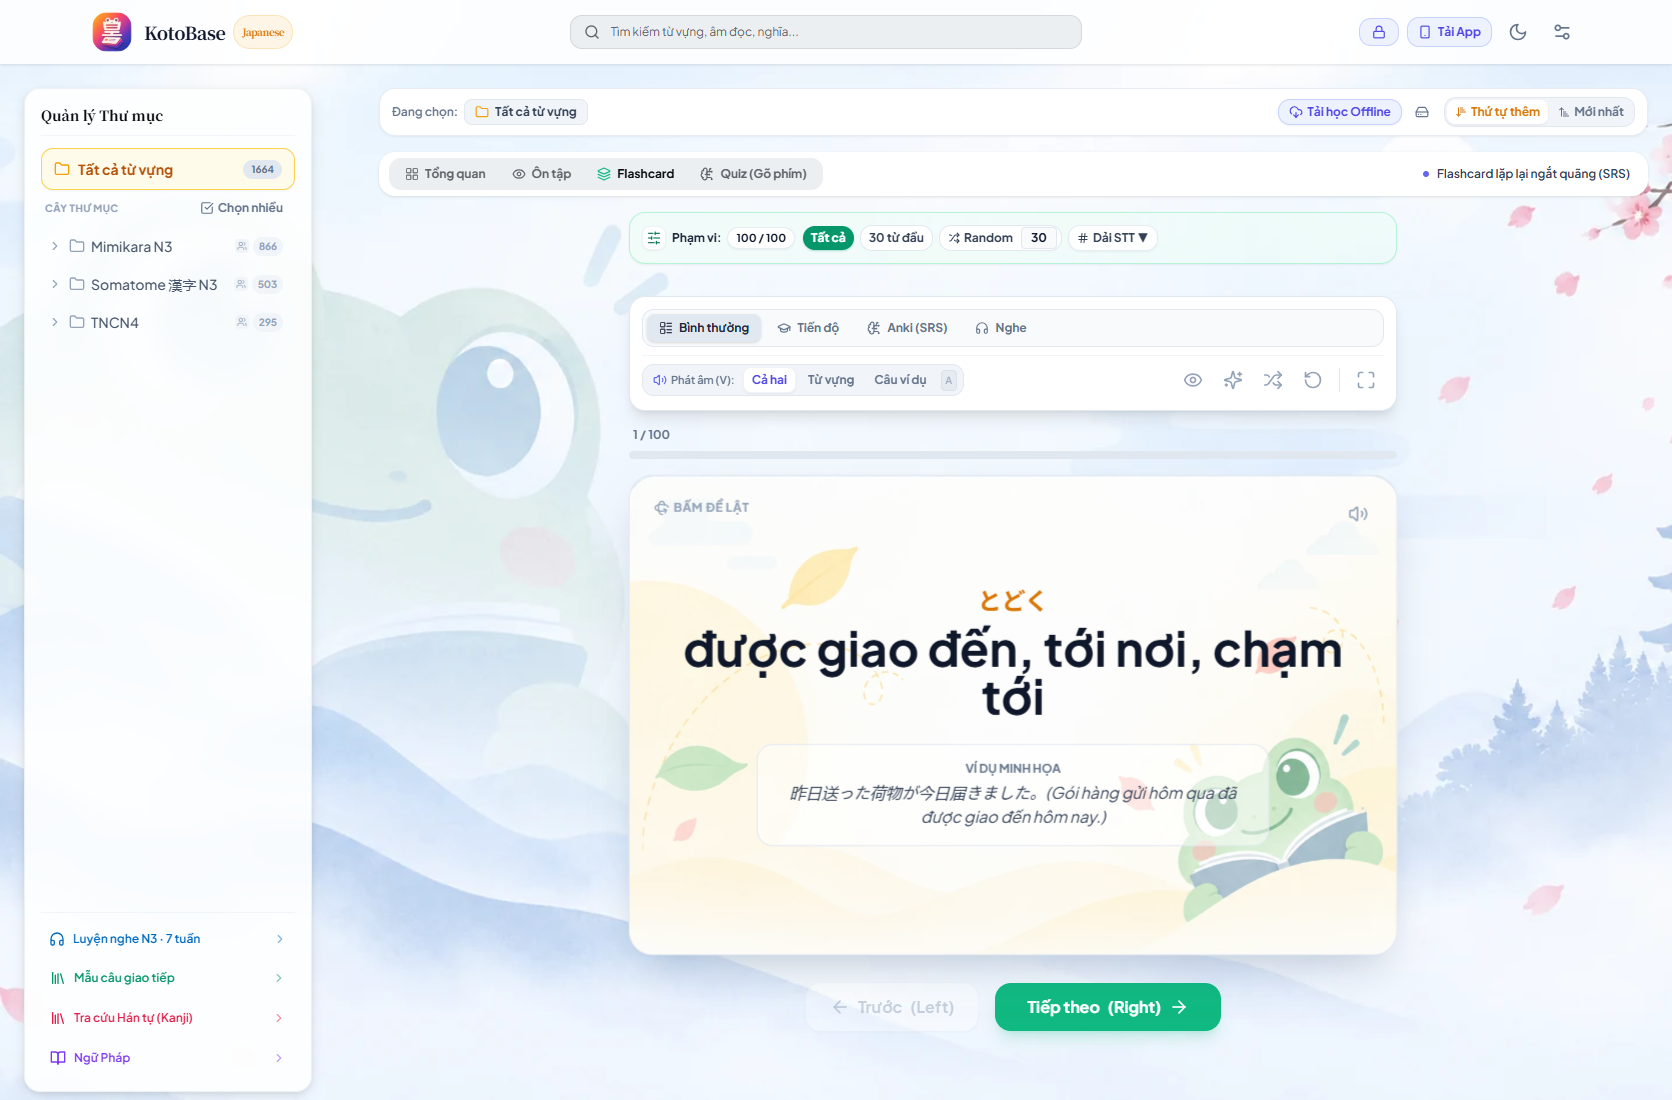
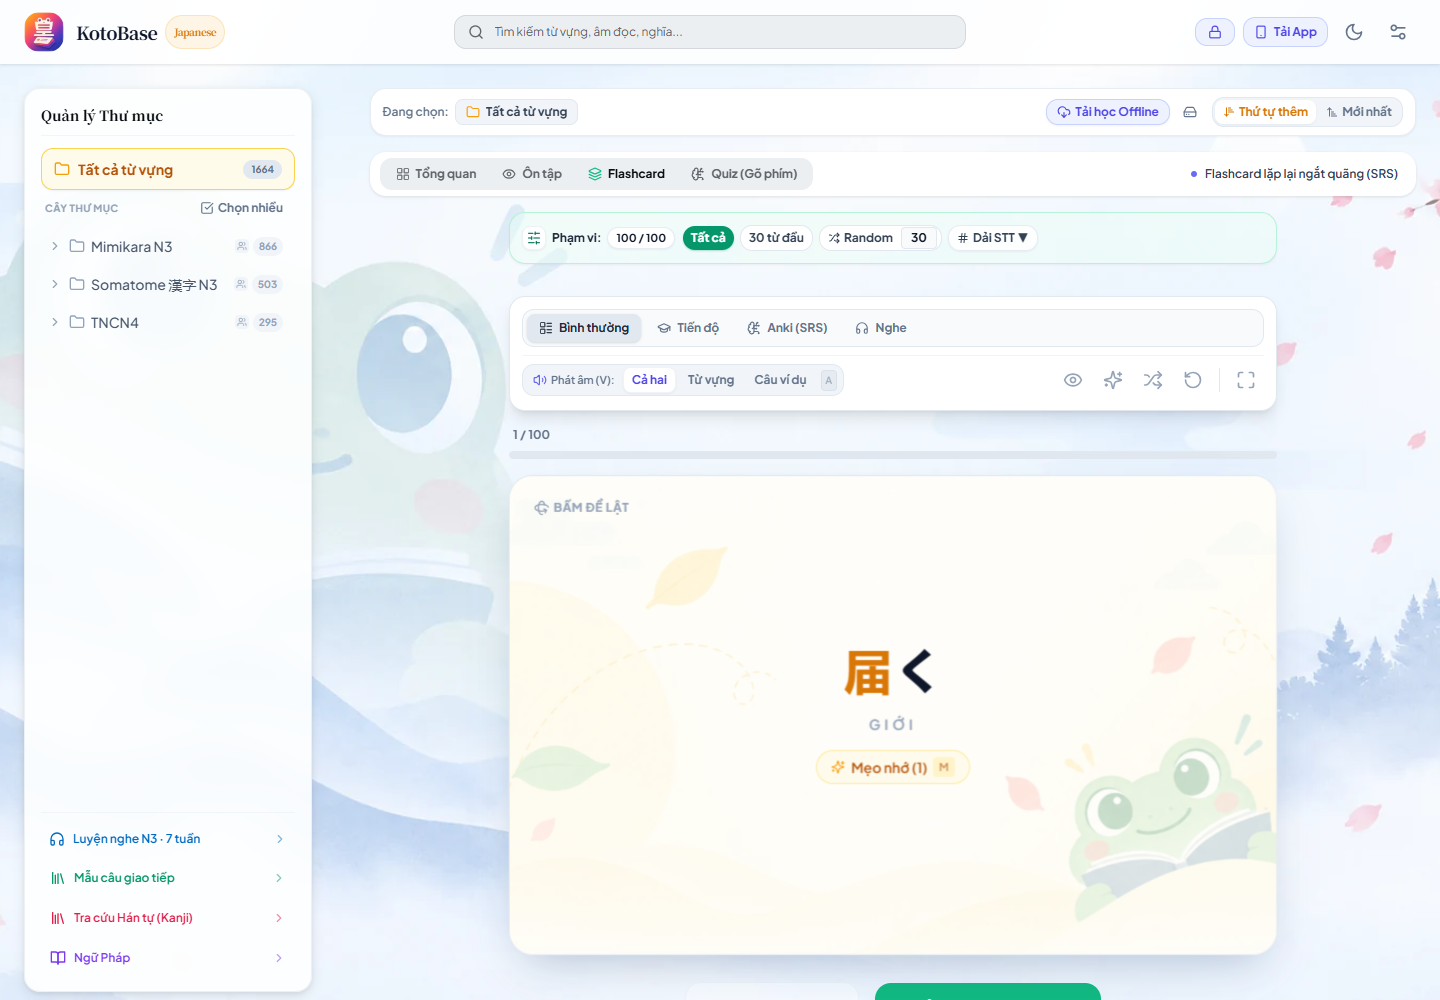
Correct study card faces, preserve artwork ratio and disable dark artwork

diff --git a/src/components/FlashcardView.tsx b/src/components/FlashcardView.tsx
@@ -13,6 +13,7 @@ import {
   AnkiRating, AnkiCardData, DEFAULT_ANKI_DATA, 
   calculateNextReview, loadAnkiProgress, saveAnkiProgress, formatInterval 
 } from "@/lib/anki-utils";
+import { StudyCardArtwork } from "./StudyCardArtwork";
 import { StudyScopeSelector } from "./StudyScopeSelector";
 import { extractKanji } from "@/lib/kanji-parser";
 import { HighlightMnemonic } from "./HighlightMnemonic";
@@ -1124,7 +1125,7 @@ export function FlashcardView({ vocabularies, selectedVocabIds = [], isActive = 
           {mode === "listening" ? (
             /* Listening Mode Front: Chỉ hiện âm thanh */
             <div 
-              className={`absolute inset-0 w-full h-full backface-hidden study-card study-card--flashcard bg-gradient-to-br from-violet-50 to-slate-50 dark:from-violet-950/40 dark:to-slate-950 border border-violet-200 dark:border-violet-700/40 rounded-3xl flex flex-col items-center justify-center p-4 sm:p-8 text-center ${
+              className={`absolute inset-0 w-full h-full backface-hidden study-card bg-gradient-to-br from-violet-50 to-slate-50 dark:from-violet-950/40 dark:to-slate-950 border border-violet-200 dark:border-violet-700/40 rounded-3xl flex flex-col items-center justify-center p-4 sm:p-8 text-center ${
                 isFlipped ? "pointer-events-none select-none" : "pointer-events-auto"
               }`}
               style={{ 
@@ -1134,6 +1135,7 @@ export function FlashcardView({ vocabularies, selectedVocabIds = [], isActive = 
                 WebkitTransform: 'rotateY(0deg) translateZ(1px)'
               }}
             >
+              <StudyCardArtwork side="front" />
               <span className="absolute top-3 left-3 sm:top-6 sm:left-6 text-[10px] sm:text-xs font-bold text-violet-400 dark:text-violet-500 uppercase tracking-wider flex items-center gap-1">
                 <Headphones className="w-3 h-3 sm:w-4 sm:h-4" /> Chế độ Nghe — Bấm để lật
               </span>
@@ -1175,7 +1177,7 @@ export function FlashcardView({ vocabularies, selectedVocabIds = [], isActive = 
           ) : (
             /* Normal / Progress / Anki Front: Hiển thị từ vựng */
             <div 
-              className={`absolute inset-0 w-full h-full backface-hidden study-card study-card--flashcard bg-gradient-to-br from-white to-slate-50 dark:from-slate-900 dark:to-slate-950 border border-slate-200 dark:border-slate-700/80 rounded-3xl flex flex-col items-center justify-center p-6 sm:p-8 text-center ${
+              className={`absolute inset-0 w-full h-full backface-hidden study-card bg-gradient-to-br from-white to-slate-50 dark:from-slate-900 dark:to-slate-950 border border-slate-200 dark:border-slate-700/80 rounded-3xl flex flex-col items-center justify-center p-6 sm:p-8 text-center ${
                 isFlipped ? "pointer-events-none select-none" : "pointer-events-auto"
               }`}
               style={{ 
@@ -1185,6 +1187,7 @@ export function FlashcardView({ vocabularies, selectedVocabIds = [], isActive = 
                 WebkitTransform: 'rotateY(0deg) translateZ(1px)'
               }}
             >
+              <StudyCardArtwork side="front" />
               <span className="absolute top-3 left-3 sm:top-6 sm:left-6 text-[10px] sm:text-xs font-bold text-slate-400 dark:text-slate-500 uppercase tracking-wider flex items-center gap-1">
                 <Rotate3D className="w-3 h-3 sm:w-4 sm:h-4" /> Bấm để lật
               </span>
@@ -1255,7 +1258,7 @@ export function FlashcardView({ vocabularies, selectedVocabIds = [], isActive = 
 
           {/* Back */}
           <div 
-            className={`absolute inset-0 w-full h-full backface-hidden study-card study-card--flashcard bg-gradient-to-br from-slate-50 to-slate-100 dark:from-slate-800 dark:to-slate-900 border border-slate-200 dark:border-slate-700/80 rounded-3xl flex flex-col items-center justify-center p-4 sm:p-8 text-center ${
+            className={`absolute inset-0 w-full h-full backface-hidden study-card bg-gradient-to-br from-slate-50 to-slate-100 dark:from-slate-800 dark:to-slate-900 border border-slate-200 dark:border-slate-700/80 rounded-3xl flex flex-col items-center justify-center p-4 sm:p-8 text-center ${
               !isFlipped ? "pointer-events-none select-none" : "pointer-events-auto"
             }`}
             style={{ 
@@ -1265,6 +1268,7 @@ export function FlashcardView({ vocabularies, selectedVocabIds = [], isActive = 
               WebkitTransform: 'rotateY(180deg) translateZ(1px)',
             }}
           >
+            <StudyCardArtwork side="back" />
             <span className="absolute top-3 left-3 sm:top-6 sm:left-6 text-[10px] sm:text-xs font-bold text-slate-400 dark:text-slate-500 uppercase tracking-wider flex items-center gap-1">
               <Rotate3D className="w-4 h-4" /> Bấm để lật
             </span>

diff --git a/src/app/globals.css b/src/app/globals.css
@@ -28,20 +28,39 @@
 
 .study-card {
   background-color: #fffdf6;
-  /* Zoom inside the supplied frame, excluding its transparent outer margin.
-     CSS owns the radius and shadow so the frame adapts to every card size. */
-  background-image: linear-gradient(#ffffff20, #ffffff20), var(--study-card-art);
-  background-size: 100% 100%, 110% 141%;
-  background-position: center, center 49%;
-  background-repeat: no-repeat;
+  background-image: none;
+  isolation: isolate;
   overflow-wrap: anywhere;
 }
 
-.study-card--flashcard {
+.study-card-artwork {
+  position: absolute;
+  inset: 0;
+  z-index: -1;
+  pointer-events: none;
+  border-radius: inherit;
+  overflow: hidden;
+  container-type: size;
+  opacity: 0.4;
+}
+
+.study-card-artwork::before {
+  content: "";
+  position: absolute;
+  inset: 0;
+  background-image: var(--study-card-art);
+  background-repeat: no-repeat;
+  /* Cover the inner frame, preserving the original 4:3 image ratio. The
+     artwork container measures itself without affecting the card's height. */
+  background-size: max(110cqw, 188cqh) auto;
+  background-position: center 49%;
+}
+
+.study-card-artwork--front {
   --study-card-art: url('/images/study/flashcard-frog.webp');
 }
 
-.study-card--quiz {
+.study-card-artwork--back {
   --study-card-art: url('/images/study/quiz-frog.webp');
 }
 
@@ -59,12 +78,16 @@
 
 .dark .study-dashboard {
   background-color: #0f172a;
-  background-image: linear-gradient(#0f172ae8, #0f172ae8), url('/images/study/sakura-landscape.webp');
+  background-image: none;
 }
 
 .dark .study-card {
   background-color: #172033;
-  background-image: linear-gradient(#0f172ae8, #0f172ae8), var(--study-card-art);
+  background-image: none;
+}
+
+.dark .study-card-artwork {
+  display: none;
 }
 
 @media (min-width: 1280px) {
@@ -98,12 +121,6 @@
     min-height: 520px;
   }
 
-  .study-card {
-    /* Keep the artwork quiet behind longer meanings and memory hints. */
-    background-image: linear-gradient(#ffffff65, #ffffff65), var(--study-card-art);
-    background-size: 100% 100%, auto 141%;
-    background-position: center, 90% 49%;
-  }
 }
 
 @media (max-width: 380px) {

diff --git a/src/components/TypingQuizView.tsx b/src/components/TypingQuizView.tsx
@@ -3,6 +3,7 @@
 import React, { useState, useEffect, useRef, useCallback } from "react";
 import { HelpCircle, CheckCircle2, XCircle, SkipForward, Info, RotateCcw, Shuffle, Maximize, Minimize, Volume2, ArrowRight, Settings2, Clock } from "lucide-react";
 import { ClickableKanjiString } from "./ClickableKanjiString";
+import { StudyCardArtwork } from "./StudyCardArtwork";
 import { StudyScopeSelector } from "./StudyScopeSelector";
 import { audioFX } from "@/lib/audio-fx";
 import { playAudio } from "@/lib/tts-utils";
@@ -801,7 +802,7 @@ export function TypingQuizView({ vocabularies, selectedVocabIds = [], isActive =
         <>
 
       {/* Card Câu hỏi */}
-      <div className={`study-card study-card--quiz bg-white dark:bg-slate-900 rounded-3xl p-6 sm:p-8 md:p-12 shadow-2xl relative overflow-hidden transition-all duration-300 ${
+      <div className={`study-card bg-white dark:bg-slate-900 rounded-3xl p-6 sm:p-8 md:p-12 shadow-2xl relative overflow-hidden transition-all duration-300 ${
         feedback === "correct"
           ? "border-2 border-emerald-500 dark:border-emerald-400 ring-4 ring-emerald-500/20 dark:ring-emerald-500/30 shadow-emerald-500/15"
           : feedback === "wrong"
@@ -809,6 +810,7 @@ export function TypingQuizView({ vocabularies, selectedVocabIds = [], isActive =
           : "border border-slate-200 dark:border-slate-800"
       }`}>
         
+        <StudyCardArtwork side={feedback === "correct" ? "back" : "front"} />
         {/* Nhãn Dạng câu hỏi */}
         <div className="absolute top-0 left-0 right-0 bg-slate-50 dark:bg-slate-800/50 border-b border-slate-100 dark:border-slate-800 px-4 sm:px-6 py-2 sm:py-2.5 flex items-center justify-center gap-2">
           <Info className="w-4 h-4 text-slate-400 shrink-0" />

diff --git a/src/components/StudyCardArtwork.tsx b/src/components/StudyCardArtwork.tsx
@@ -1,0 +1,4 @@
+/** Decorative artwork shared by flashcard faces and quiz question/answer states. */
+export function StudyCardArtwork({ side }: { side: "front" | "back" }) {
+  return <span aria-hidden="true" className={`study-card-artwork study-card-artwork--${side}`} />;
+}

diff --git a/public/images/study/README.md b/public/images/study/README.md
@@ -5,9 +5,11 @@ User-supplied artwork, converted to WebP (quality 88) without resizing or changi
 | File | Original size | Use |
 | --- | --- | --- |
 | `sakura-landscape.webp` | 1672 × 941 | Dashboard landscape (reference image 2) |
-| `flashcard-frog.webp` | 1448 × 1086 | Both flashcard faces, including listening mode (image 4) |
-| `quiz-frog.webp` | 1448 × 1086 | Typing quiz question (image 5) |
+| `flashcard-frog.webp` | 1448 × 1086 | Front: flashcard prompt/listening and quiz question (image 4) |
+| `quiz-frog.webp` | 1448 × 1086 | Back: flashcard answer and revealed correct quiz answer (image 5) |
 
-The card files retain their original alpha channel and outer frame. CSS zooms into the inner artwork using `110% 141%` at `center 49%`; the component provides its own rounded border and shadow. Light overlays soften the artwork on narrow screens; a dark overlay preserves text contrast in dark mode. Styling is scoped to the dashboard and study cards in `src/app/globals.css`.
+The historical filenames are retained; they identify the two faces, not separate study modes. `StudyCardArtwork` shares these faces between Flashcard and Quiz. Quiz switches to the back when the correct answer is revealed.
+
+The images retain their alpha channel and outer frame. An absolutely positioned artwork container clips the frame, using `max(110cqw, 188cqh) auto` to cover the card without stretching the original 4:3 image. Card height remains content-driven in Quiz. Artwork opacity is 40%, independently of the text. Dark mode hides card artwork and removes the dashboard background image entirely. Styling lives in `src/app/globals.css`.
 
 Total runtime artwork: approximately 269 KB. Visual previews are in `docs/previews/study-theme`.

diff --git a/docs/previews/study-theme/README.md b/docs/previews/study-theme/README.md
@@ -2,10 +2,13 @@
 
 Screenshots from the running KotoBase application using its existing public vocabulary. No sample data is inserted into the database.
 
-- `flashcard-desktop.png`: 1672 × 1100, light theme.
+- `flashcard-desktop.png`: 1440 × 1000, front face, light theme.
+- `flashcard-back-desktop.png`: 1440 × 1000, back face, light theme.
 - `flashcard-mobile.png`: 390 × 844, scrolled to the learning card.
-- `quiz-desktop.png`: 1672 × 1000, light theme.
-- `quiz-mobile.png`: 390 × 844, question and answer input.
-- `quiz-answer-mobile.png`: answer submission preview.
+- `quiz-desktop.png`: 1440 × 1000, front/question artwork, light theme.
+- `quiz-dark.png`: 1440 × 1000, no landscape or card artwork in dark mode.
+- `quiz-mobile.png`: 390 × 844, revealed correct answer with back artwork.
+
+Verified quiz answer submission switches artwork to `study-card-artwork--back` before advancing. Dark-mode computed styles confirm dashboard/card `background-image: none` and artwork `display: none`. Mobile widths 320px and 390px have no document overflow.
 
 Runtime artwork is stored separately in `public/images/study`; screenshots are documentation only and are not loaded by the application.
